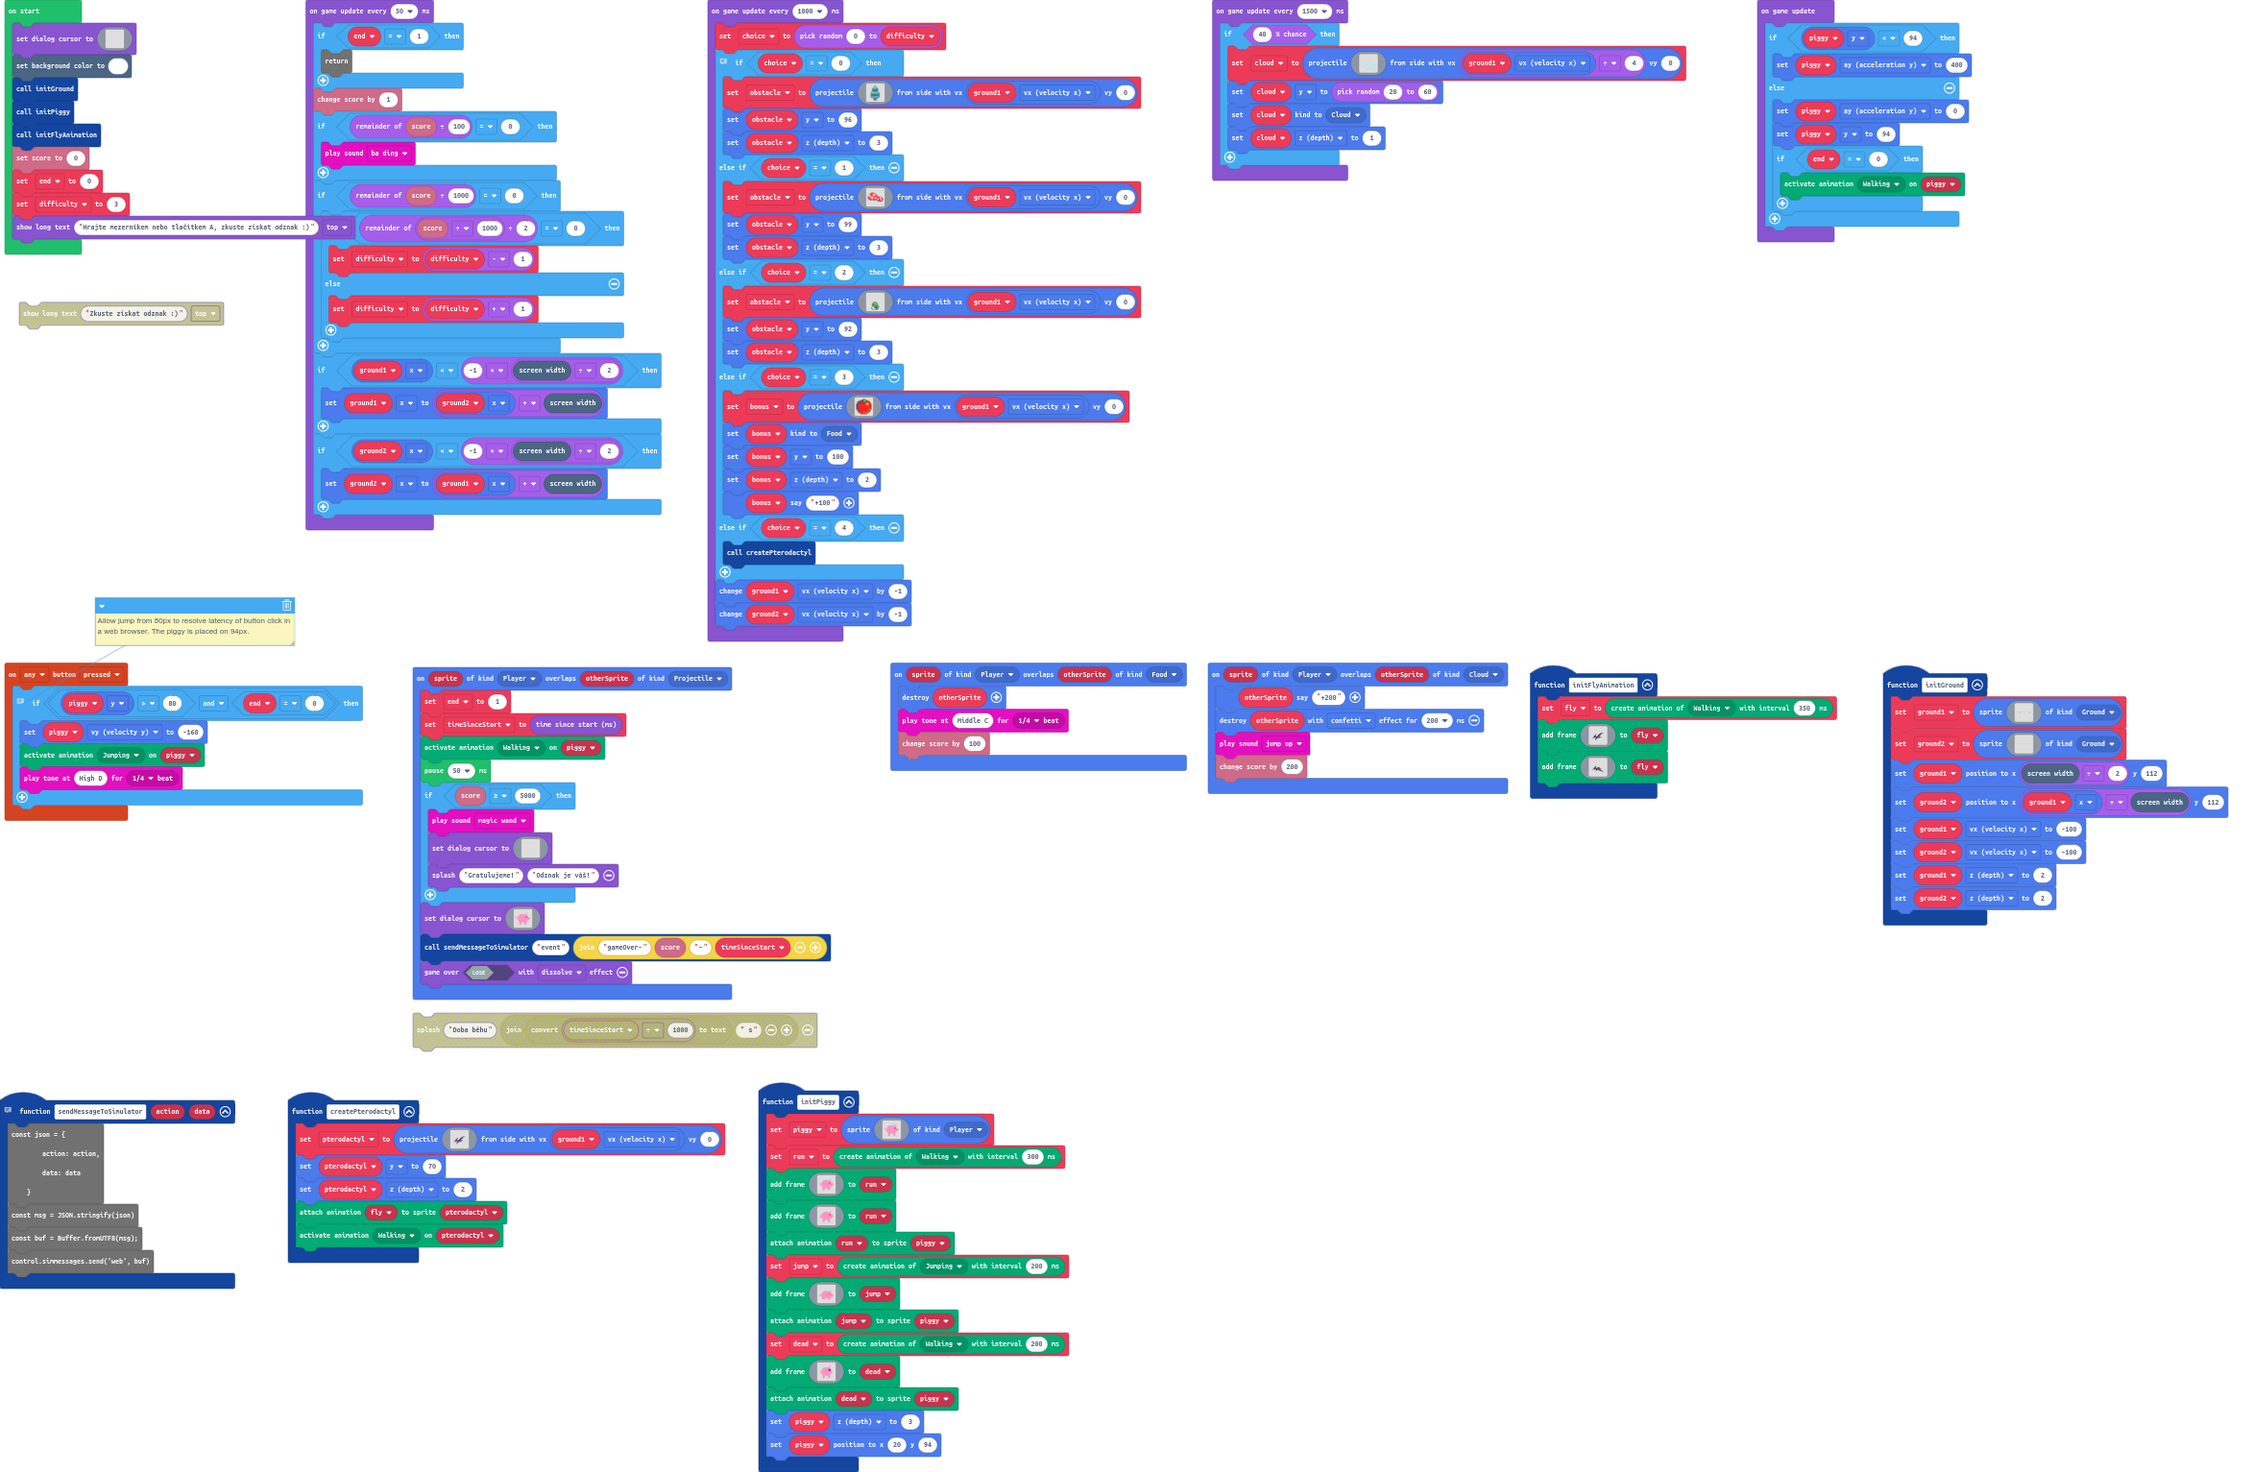
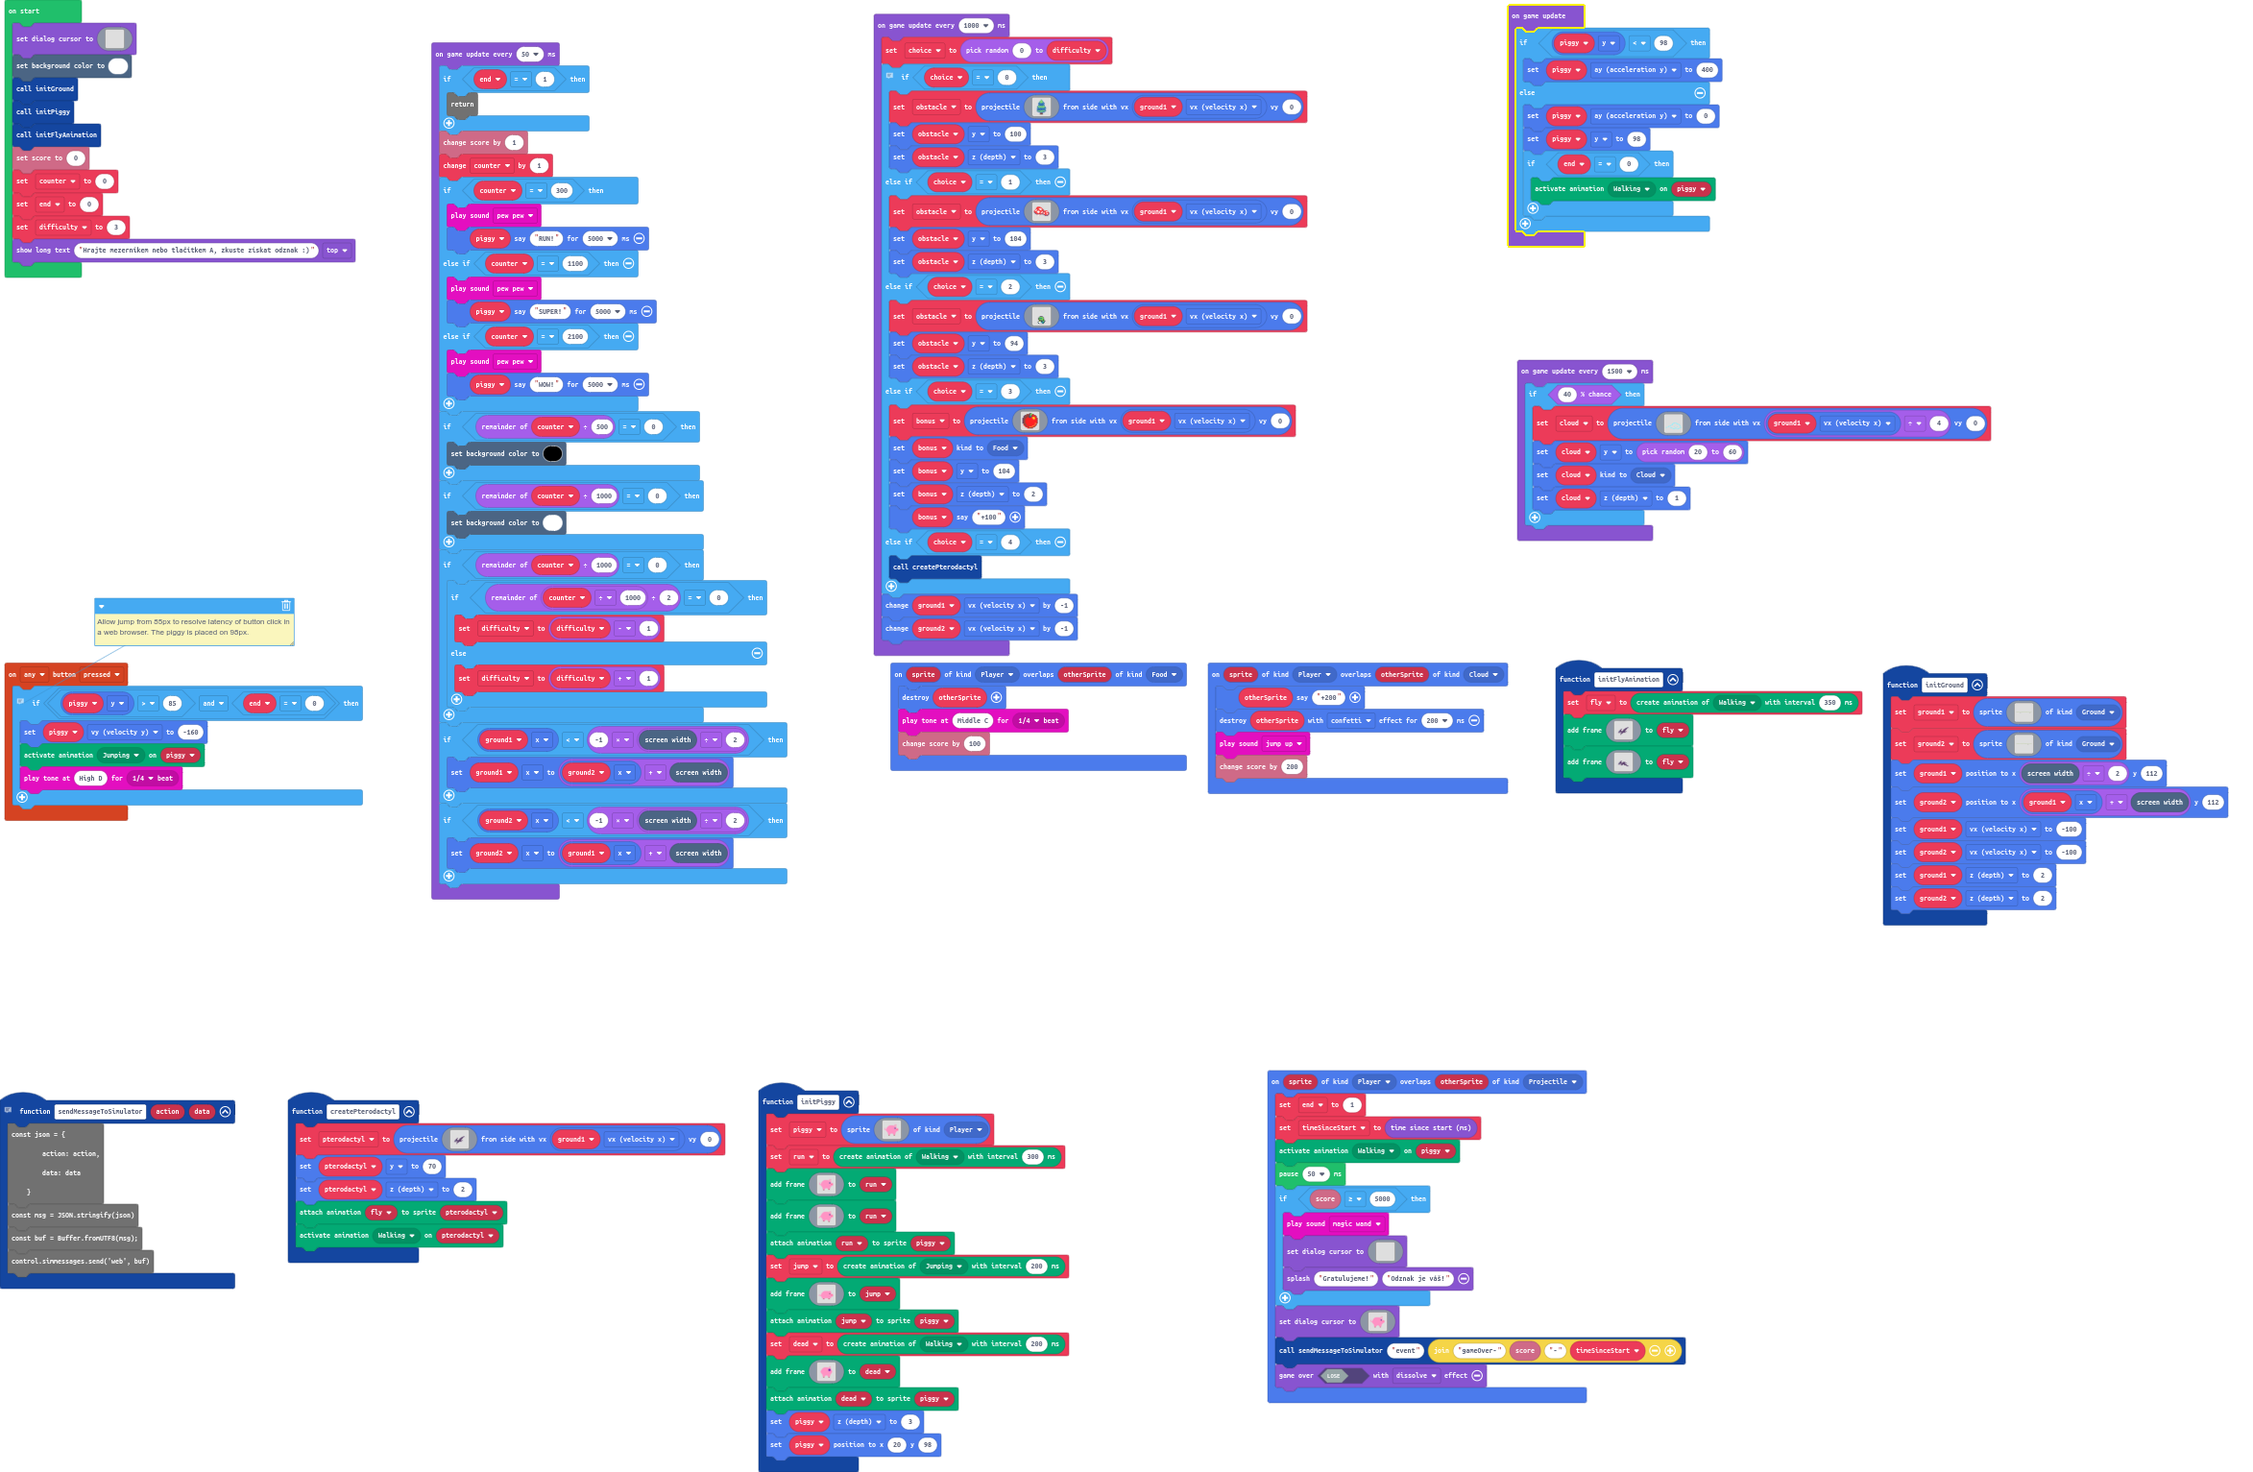
Update main.blocks, main.ts, images.g.jres, images.g.ts

diff --git a/images.g.ts b/images.g.ts
@@ -186,44 +186,6 @@ f61111166666cf..
 .f6111111666f...
 ..cccccccccf....
 `;
-            case "image22":
-            case "ground 2":return img`
-.....................................................7777..................7777...................................................................................
-....................................................7....7................7....7..................................................................................
-7777777777777777777777777777777777777777777777777777......7777777777777777......7777777777777777777777777777777777777777777777777777777777777777777777777777777777
-..................................................................................................................................................................
-..................................................................................................................................................................
-....bbb..b.................bbb..b...........b..bbbb..........................b.............b..bbbb.........................bbbb..b.......................b..bbbb..
-..................................................................................................................................................................
-...............b..bbbb...............b..................b..bbbb.....b..bbbb........b.bb..............b.......b.bbbb.........................b..bbbb...............
-..................................................................................................................................................................
-..................................................................................................................................................................
-..................................................................................................................................................................
-..................................................................................................................................................................
-..................................................................................................................................................................
-..................................................................................................................................................................
-..................................................................................................................................................................
-..................................................................................................................................................................
-`;
-            case "image18":
-            case "ground 1":return img`
-...................................................................................7777...........................................................................
-..................................................................................7....7..........................................................................
-777777777777777777777777777777777777777777777777777777777777777777....777777777777......77777777777777777.....7777777777777777777777777777777777777777777777777777
-..................................................................7777...................................77777....................................................
-................................bbddbb......................................................................................................bbddbb................
-..bbbb..b......................b113311b.........................bbbb..b.............b..........................bbbb..b...........b..bbb....b113311b.....b..bbb....
-...............................b135531b....................................................................................................b135531b...............
-...............bbbb..b.........bd3553db........bbbb.b.......b..............bb.b........bbbb..b.....bbbb..b..................b..............bd3553db...............
-...............................c11dd11c....................................................................................................c11dd11c...............
-...............................cd1dd1dc....................................................................................................cd1dd1dc...............
-................................cc76cc......................................................................................................cc76cc................
-.................................676.........................................................................................................676..................
-.................................668886......................................................................................................668886...............
-.................................687776......................................................................................................687776...............
-.................................87776.......................................................................................................87776................
-.................................8886........................................................................................................8886.................
-`;
             case "image4":
             case "apple":return img`
 . . . . . . . e c 7 . . . . . . 
@@ -472,6 +434,44 @@ c2222111122111c2222112c.
 . . . . . . . . . . . . . . . . 
 . . . . . . . . . . . . . . . . 
 . . . . . . . . . . . . . . . . 
+`;
+            case "image18":
+            case "ground 1":return img`
+...................................................................................7777...........................................................................
+..................................................................................7....7..........................................................................
+777777777777777777777777777777777777777777777777777777777777777777....777777777777......77777777777777777.....7777777777777777777777777777777777777777777777777777
+..................................................................7777...................................77777....................................................
+..................................................................................................................................................................
+..eeee..e..........................ee.e............e............eeee..e.............e.............e............eeee..e...........e..eee.................e..eee....
+..................................................................................................................................................................
+...............eeee..e.......e...................ee.e...........e..........ee.e........eeee..e.....eeee..e..................e.....................................
+........................................bbddbb...............................................................................................bbddbb...............
+.......................................b113311b.............................................................................................b113311b..............
+.......................................b135531b.............................................................................................b135531b..............
+.......................................bd3553db.............................................................................................bd3553db..............
+.......................................c11dd11c.............................................................................................c11dd11c..............
+.......................................cd1dd1dc.............................................................................................cd1dd1dc..............
+........................................cc76cc...............................................................................................cc76cc...............
+.........................................676..................................................................................................676.................
+`;
+            case "image22":
+            case "ground 2":return img`
+.....................................................7777..................7777...................................................................................
+....................................................7....7................7....7..................................................................................
+7777777777777777777777777777777777777777777777777777......7777777777777777......7777777777777777777777777777777777777777777777777777777777777777777777777777777777
+..................................................................................................................................................................
+..................................................................................................................................................................
+....eee..e.................eee..e...........e..eeee..........................e.............e..eeee.........................eeee..e.......................e..eeee..
+..................................................................................................................................................................
+...............e..eeee...............e..................e..eeee.....e..eeee........e.ee..............e.......e.eeee.........................e..eeee...............
+.........................................................................................................................bbddbb...................................
+........................................................................................................................b113311b..................................
+........................................................................................................................b135531b..................................
+........................................................................................................................bd3553db..................................
+........................................................................................................................c11dd11c..................................
+........................................................................................................................cd1dd1dc..................................
+.........................................................................................................................cc76cc...................................
+..........................................................................................................................676.....................................
 `;
         }
         return null;

diff --git a/main.ts b/main.ts
@@ -39,11 +39,11 @@ function initPiggy () {
     dead.addAnimationFrame(assets.image`piggy 5`)
     animation.attachAnimation(piggy, dead)
     piggy.z = 3
-    piggy.setPosition(20, 94)
+    piggy.setPosition(20, 98)
 }
 controller.anyButton.onEvent(ControllerButtonEvent.Pressed, function () {
-    // Allow jump from 80px to resolve latency of button click in a web browser. The piggy is placed on 94px.
-    if (piggy.y > 80 && end == 0) {
+    // Allow jump from 85px to resolve latency of button click in a web browser. The piggy is placed on 98px.
+    if (piggy.y > 85 && end == 0) {
         piggy.vy = -160
         animation.setAction(piggy, ActionKind.Jumping)
         music.playTone(587, music.beat(BeatFraction.Quarter))
@@ -144,15 +144,16 @@ initGround()
 initPiggy()
 initFlyAnimation()
 info.setScore(0)
+let counter = 0
 end = 0
 let difficulty = 3
 game.showLongText("Hrajte mezerníkem nebo tlačítkem A, zkuste získat odznak :)", DialogLayout.Top)
 game.onUpdate(function () {
-    if (piggy.y < 94) {
+    if (piggy.y < 98) {
         piggy.ay = 400
     } else {
         piggy.ay = 0
-        piggy.y = 94
+        piggy.y = 98
         if (end == 0) {
             animation.setAction(piggy, ActionKind.Walking)
         }
@@ -163,11 +164,25 @@ game.onUpdateInterval(50, function () {
         return
     }
     info.changeScoreBy(1)
-    if (info.score() % 100 == 0) {
-        music.baDing.play()
+    counter += 1
+    if (counter == 300) {
+        music.pewPew.play()
+        piggy.say("RUN!", 5000)
+    } else if (counter == 1100) {
+        music.pewPew.play()
+        piggy.say("SUPER!", 5000)
+    } else if (counter == 2100) {
+        music.pewPew.play()
+        piggy.say("WOW!", 5000)
     }
-    if (info.score() % 1000 == 0) {
-        if (info.score() / 1000 % 2 == 0) {
+    if (counter % 500 == 0) {
+        scene.setBackgroundColor(15)
+    }
+    if (counter % 1000 == 0) {
+        scene.setBackgroundColor(1)
+    }
+    if (counter % 1000 == 0) {
+        if (counter / 1000 % 2 == 0) {
             difficulty = difficulty - 1
         } else {
             difficulty = difficulty + 1
@@ -186,20 +201,20 @@ game.onUpdateInterval(1000, function () {
     // console.logValue("choice", choice)
     if (choice == 0) {
         obstacle = sprites.createProjectileFromSide(assets.image`tree`, ground1.vx, 0)
-        obstacle.y = 96
+        obstacle.y = 100
         obstacle.z = 3
     } else if (choice == 1) {
         obstacle = sprites.createProjectileFromSide(assets.image`mushrooms`, ground1.vx, 0)
-        obstacle.y = 99
+        obstacle.y = 104
         obstacle.z = 3
     } else if (choice == 2) {
         obstacle = sprites.createProjectileFromSide(assets.image`snake`, ground1.vx, 0)
-        obstacle.y = 92
+        obstacle.y = 94
         obstacle.z = 3
     } else if (choice == 3) {
         bonus = sprites.createProjectileFromSide(assets.image`apple`, ground1.vx, 0)
         bonus.setKind(SpriteKind.Food)
-        bonus.y = 100
+        bonus.y = 104
         bonus.z = 2
         bonus.say("+100")
     } else if (choice == 4) {
